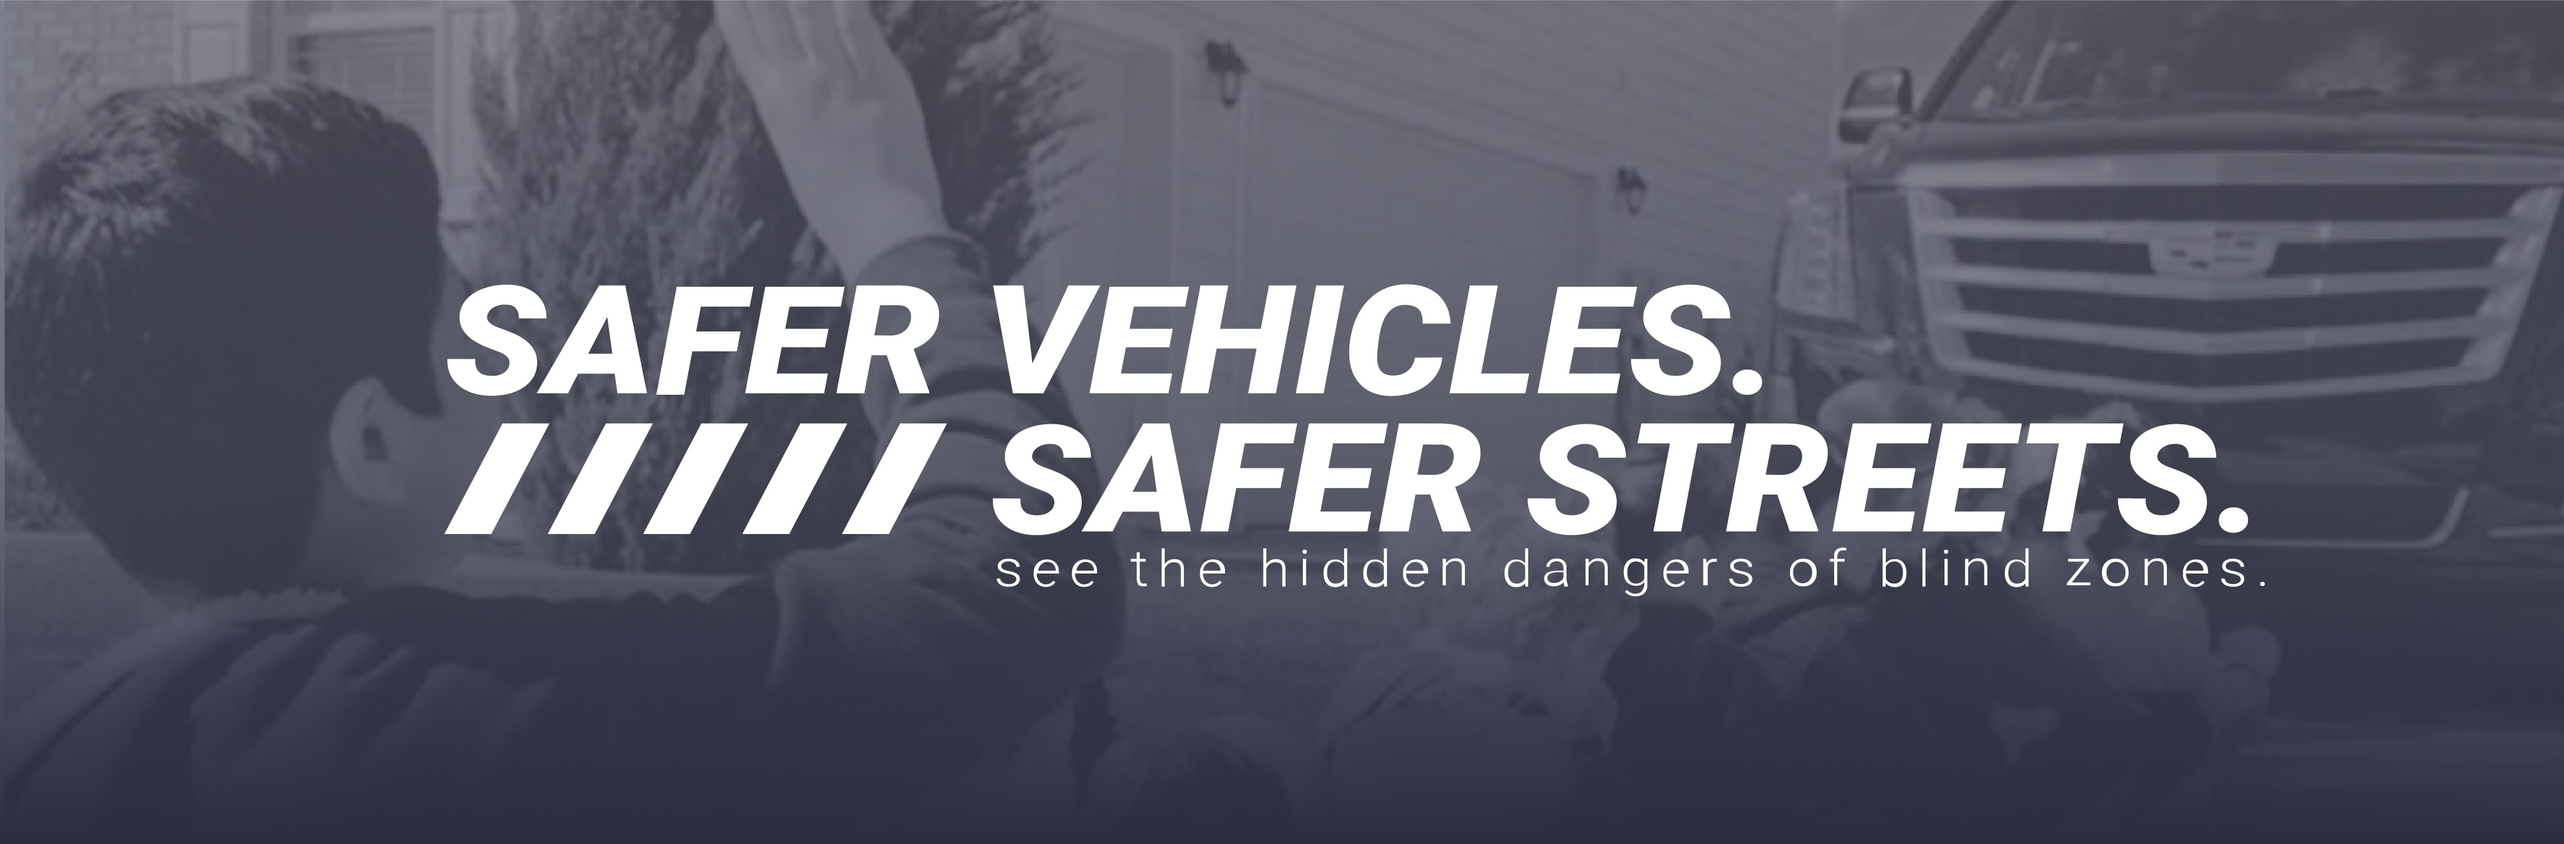
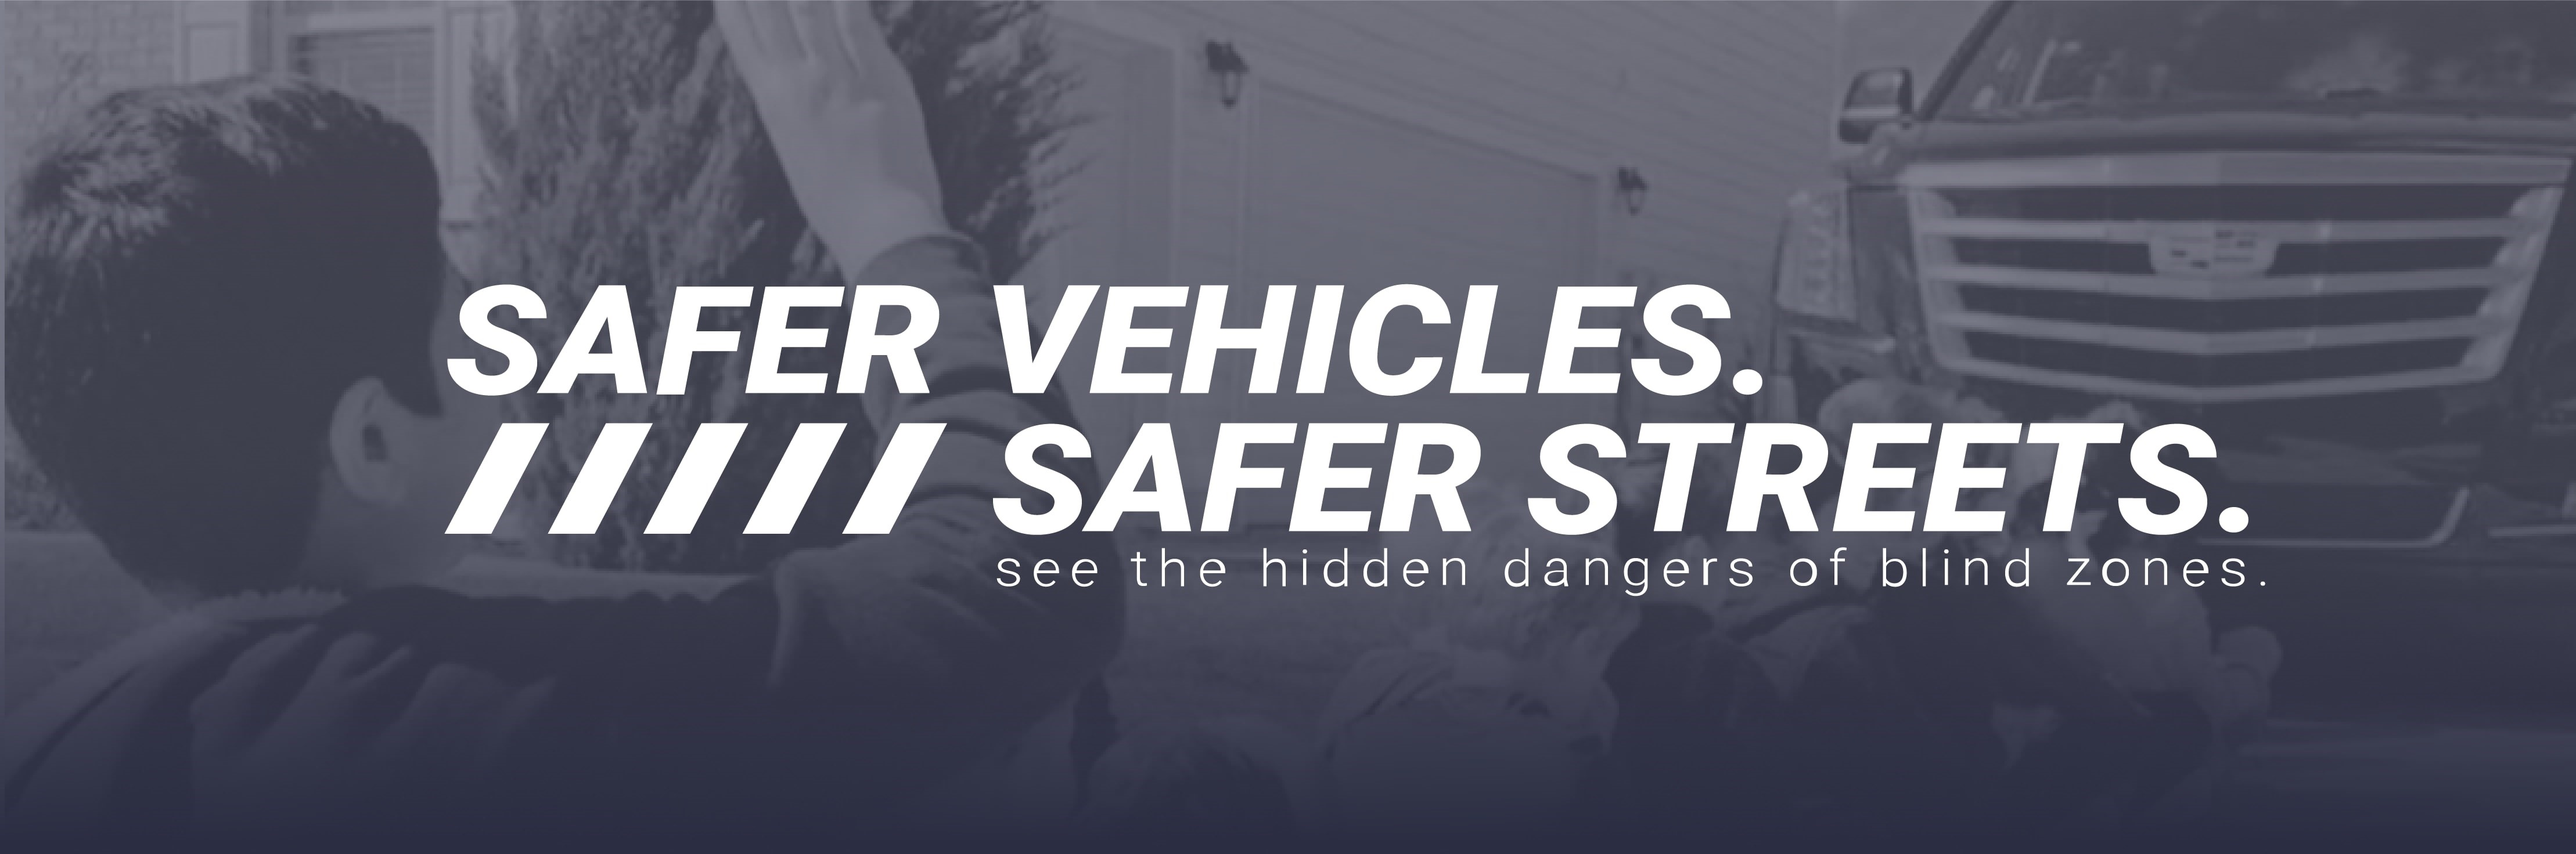
Updates Monday 7/24

diff --git a/blindspotapp/templates/faq_measurements.html b/blindspotapp/templates/faq_measurements.html
@@ -1,47 +1,4 @@
 <div class="accordion-item">
-	<h2 class="accordion-header" id="headingmeasure2" style = "font-family: Roboto, sans-serif;  color: #2B2D42;">
-	  <button class="accordion-button collapsed" type="button" data-bs-toggle="collapse" data-bs-target="#measure2" aria-expanded="false" aria-controls="measure2" id = "button_text" style ="font-family: Roboto, sans-serif;  color:#2B2D42;">
-		How are the visibility scores calculated?
-	  </button>
-	</h2>
-	<div id="measure2" class="accordion-collapse collapse" aria-labelledby="headingOne"style = "font-family: Roboto, sans-serif;  color: #2B2D42;">
-	  <div class="accordion-body">
-		The visibility scores are the percent of the volume of interest that is visible to the driver.
-		This volume is calculated from the driver side of the front window to the passenger side window (the driver side window is excluded from visibility calculations). 
-	  </div>
-	</div>
-</div>
-
-<div class="accordion-item">
-	<h2 class="accordion-header" id="headingmeasure3" style = "font-family: Roboto, sans-serif;  color: #2B2D42;">
-	  <button class="accordion-button collapsed" type="button" data-bs-toggle="collapse" data-bs-target="#measure3" aria-expanded="false" aria-controls="measure3" id = "button_text" style ="font-family: Roboto, sans-serif;  color:#2B2D42;">
-		What is the volume of interest?
-	  </button>
-	</h2>
-	<div id="measure3" class="accordion-collapse collapse" aria-labelledby="headingOne" style = "font-family: Roboto, sans-serif;  color: #2B2D42;">
-	  <div class="accordion-body">
-		The volume of interest is the volume around the vehicle extending 15 feet forward from the front of the hood, 15 feet from the side from the vehicle's passenger side, and 74 inches high.
-		The volume extending from the driver side is not measured. Outside of the A-pillar blind zones, crash data has shown that crashes in the driver-side blind zone are less common than crashes in the
-		front and passenger-side blind zones.
-
-		<p><p>The distance from the front and passenger sides are taken from TfL's research. The height limit of 74 inches, or 6 feet and 2 inches, corresponds to the 95th percentile height of men in the US,
-		thereby ensuring our volume of interest captures as many types of VRUs as possible.
-	  </div>
-	</div>
-</div>
-<div class="accordion-item">
-	<h2 class="accordion-header" id="headingmeasure4"style = "font-family: Roboto, sans-serif;  color: #2B2D42;" >
-		<button class="accordion-button collapsed" type="button" data-bs-toggle="collapse" data-bs-target="#measure4" aria-expanded="false" aria-controls="measure4" id = "button_text" style ="font-family: Roboto, sans-serif;  color:#2B2D42;">
-		Why are there three visibility scores?
-		</button>
-	</h2>
-	<div id="measure4" class="accordion-collapse collapse" aria-labelledby="heading" style = "font-family: Roboto, sans-serif;  color: #2B2D42;">
-		<div class="accordion-body">
-		The front and passenger side blindzones have different crash risks. In order to account for this, the front visibility and side visibility scores have been added to the overall visibility score.
-		</div>
-	</div>
-</div>
-<div class="accordion-item">
 	<h2 class="accordion-header" id="headingmeasure5" style = "font-family: Roboto, sans-serif;  color: #2B2D42;">
 	  <button class="accordion-button collapsed" type="button" data-bs-toggle="collapse" data-bs-target="#measure5" aria-expanded="false" aria-controls="measure5" id = "button_text" style ="font-family: Roboto, sans-serif;  color:#2B2D42;">
 		How is the number of vulnerable road users calculated?
@@ -49,8 +6,10 @@
 	</h2>
 	<div id="measure5" class="accordion-collapse collapse" aria-labelledby="headingOne" style = "font-family: Roboto, sans-serif;  color: #2B2D42;">
 	  <div class="accordion-body">
-		A vulnerable road user is considered invisible if a driver cannot see their head and shoulders.
-		The shoulder heights of 5th percentile United States female vulnerable road users are used in this calculation.
+		<p><b>A vulnerable road user</b> is considered invisible if a driver cannot see their head and shoulders.
+		The shoulder heights of 5th percentile United States female vulnerable road users are used in this calculation.</p>
+		<p></p>
+		<p>By each type of VRU type in the VIEW app, the height to shoulder measurements are: <i>preschool child</i> – 28 inches, <i>elementary school child</i> – 37 inches, <i>elementary school child on bicycle</i> – 35 inches, <i>wheelchair user</i> – 39 inches, <i>adult on bicycle</i> – 47 inches, and <i>adult</i> – 49 inches. </p>
 	  </div>
 	</div>
 </div>

diff --git a/blindspotapp/templates/faq.html b/blindspotapp/templates/faq.html
@@ -22,7 +22,9 @@
 			</h2>
 			<div id="info1" class="accordion-collapse collapse" aria-labelledby="heading1" style="font-famiy: Roboto, sans-serif; color:#2B2D42;">
 				<div class="accordion-body">
-				Direct vision is anything that can be seen by a driver directly - without the help of any device such as a mirror or a camera.
+				<p>Direct vision is anything that can be seen by a driver directly - without the help of any device such as a mirror or a camera.</p>
+				<p></p>
+				<p><img src="static/Direct Vision Graphic.png" alt="FAQ Direct Vision Image" style = "width:450px; height:212px;"></p>
 				</div>
 			</div>
 		</div>
@@ -46,7 +48,9 @@
 			</h2>
 			<div id="info3" class="accordion-collapse collapse" aria-labelledby="heading3" style="font-famiy: Roboto, sans-serif; color:#2B2D42;">
 				<div class="accordion-body">
-				A vehicle’s blind zone is the area around the vehicle that cannot be seen directly by the current driver. A blind zone can hold many <b> vulnerable road users, </b> increasing the crash risk. Larger and heavier vehicles like trucks tend to have larger blind zones than smaller vehicles, like passenger cars.
+				<p>A vehicle’s blind zone is the area around the vehicle that cannot be seen directly by the current driver. A blind zone can hold many <b> vulnerable road users, </b> increasing the crash risk. Larger and heavier vehicles like trucks tend to have larger blind zones than smaller vehicles, like passenger cars.</p>
+				<p></p>
+				<p><img src="static/Vehicle Information Graphic.png" alt="FAQ Blind Zone Image" style = "width:450px; height:323px;"></p>
 				</div>
 			</div>
 		</div>

diff --git a/blindspotapp/templates/home.html b/blindspotapp/templates/home.html
@@ -6,6 +6,16 @@
 <link rel="stylesheet" type="text/css" href="{% static 'blindspotapp/home.css' %}">
 {% endblock %}
 <html>
+	<style>
+		body{
+			background-color: #2B2D42;
+			margin-top: 0px;
+			margin-left: 0px;
+			margin-bottom: 0px;
+			margin-right: 0px;
+
+		}
+	</style>
 <!--
 <div class="alert alert-info alert-dismissible" role="alert" style="background-color=black">
     <button aria-label="Close" class="close" data-dismiss="alert" type="button"><span
@@ -18,7 +28,7 @@
 </div> -->
 {% include 'header.html' %}
 
-<div id="carouselExampleControls" class="carousel"  style="background-color:#8D99AE; border-color:#8D99AE;">
+<div id="carouselExampleControls" class="carousel"  style="background-color:#2B2D42; border-color:#2B2D42; padding:0rem">
   <div class="carousel-inner">
     <div class="carousel-item active" >
 		<img class="d-block w-100" src="static/Export for Screens@4x.jpg" alt="Landing Page Image" style="width:100%; height: 100%; border: #2B2D42; border-color: #2B2D42;">
@@ -63,7 +73,7 @@
 </div>
 <!-- <hr> -->
 <div id=top_text>
-    <h3 style="text-align:center;font-family: Roboto, sans-serif; font-weight:bold;color:#2B2D42;">Our Free, Smartphone-Based Blind Zone Measurement Tool Enables:
+    <h3 style="text-align:center;font-family: Roboto, sans-serif; font-weight:bold;font-style: italic; color:white;">Our Free, Smartphone-Based Blind Zone Measurement Tool Enables:
     </h3>
 </div>
 <!-- <hr> -->

diff --git a/blindspotapp/templates/header.html b/blindspotapp/templates/header.html
@@ -8,7 +8,7 @@
         the opportunity to grow and expand this site. Please contact blindzoneapp@dot.gov if your organization is
         interested in working with us.</p>
 </div> -->
-<div class="jumbotron" style="margin:0px">
+<div class="jumbotron" style="margin: 0px">
     <nav class="navbar navbar-default navbar-inverse navbar-static-top" style="margin:0px; background: #2B2D42;">
         <div class="container">
             <ul class="nav navbar-nav navbar-expand-lg navbar-expand-xs navbar-expand-md  navbar-expand-xl navbar-expand-sm" style="padding:0px; background:#8D99AE;">

diff --git a/blindspotapp/templates/base.html b/blindspotapp/templates/base.html
@@ -126,6 +126,10 @@
       background: #8D99AE;
     }
 
+    .navbar{
+			border-bottom: .5px solid #2B2D42
+		}
+
     .jumbotron .lang-logo {
       display: block;
       background: #b01302;
@@ -134,7 +138,6 @@
       width: 100px;
       height: 100px;
       margin: auto;
-      border: 2px solid white
     }
 
     .jumbotron .lang-logo img {
@@ -148,6 +151,7 @@
       padding-top: 0px; 
       max-width: 100%; 
       text-align: center;
+      bottom-border: .5px solid #8D99AE
     }
 
     .hidden {
